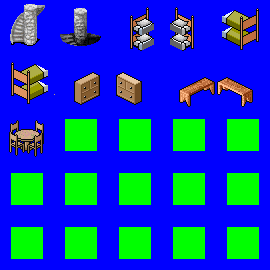
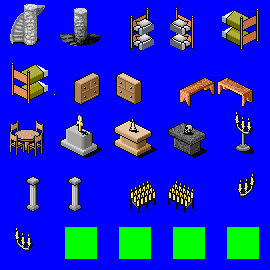
Added field rest

diff --git a/exploration.py b/exploration.py
@@ -208,6 +208,38 @@ class Explorer( object ):
         x,y = camp.first_living_pc().pos
         self.view.focus( screen, x, y )
 
+    def field_camp( self ):
+        """The party is going camping. Yahoo!"""
+        self.alert( "You camp down to take a short rest..." )
+        awareness = min( self.camp.party_stat( stats.AWARENESS, stats.INTELLIGENCE ), 75 ) + 15
+        if random.randint(1,100) <= awareness:
+            self.camp.rest( 0.5 )
+            self.alert( "...and wake up perfectly refreshed." )
+        elif random.randint(1,3)==2 and self.camp.gold > random.randint( 1,1000 ):
+            lose = max( self.camp.gold // 2, 1 )
+            self.camp.gold -= lose
+            self.camp.rest( 0.5 )
+            self.alert( "...but when you wake up, {0}gp is missing!".format( lose ) )
+        else:
+            pc = self.camp.first_living_pc()
+            aoe = list()
+            for x in range( pc.pos[0]-3, pc.pos[0]+4 ):
+                for y in range( pc.pos[1]-3, pc.pos[1]+4 ):
+                    if self.scene.on_the_map(x,y) and not self.scene.map[x][y].blocks_walking() and not self.scene.get_character_at_spot((x,y)):
+                        aoe.append( (x,y) )
+            team = teams.Team(default_reaction=-999)
+            mons = team.build_encounter( self.scene,(self.scene.rank + self.camp.party_rank() )//2, random.randint(40,65), self.scene.get_encounter_request() )
+            for m in mons:
+                if aoe:
+                    p = random.choice( aoe )
+                    aoe.remove( p )
+                    m.place( self.scene, p )
+                else:
+                    break
+            self.alert( "...and get woken up by monsters!" )
+            self.camp.activate_monster( mons[0] )
+
+
     def probe( self, target ):
         csheet = charsheet.CharacterSheet( target, screen=self.screen )
         myredraw = charsheet.CharacterViewRedrawer( csheet=csheet, screen=self.screen, caption="Probe", predraw=self.view)
@@ -607,6 +639,8 @@ class Explorer( object ):
                         self.view.focus( self.screen, *self.camp.first_living_pc().pos )
                     elif gdi.unicode == u"m":
                         self.cast_explo_spell(0)
+                    elif gdi.unicode == u"R":
+                        self.field_camp()
                     elif gdi.unicode == u"s":
                         self.shop( self )
                     elif gdi.unicode == u"*":

diff --git a/narrator/plots.py b/narrator/plots.py
@@ -6,17 +6,17 @@ class PlotError( Exception ):
 
 class PlotState( object ):
     """For passing state information to subplots."""
-    def __init__( self, propp=0, setting=None, chapter=None, level=None, elements={} ):
+    def __init__( self, propp=0, setting=None, chapter=None, rank=None, elements={} ):
         self.propp = propp
         self.setting = setting
         self.chapter = chapter
-        self.level = level
+        self.rank = rank
         self.elements = elements
     def based_on( self, oplot ):
         self.propp = self.propp or oplot.propp
         self.setting = self.setting or oplot.setting
         self.chapter = self.chapter or oplot.chapter
-        self.level = self.level or oplot.level
+        self.rank = self.rank or oplot.rank
         # Only copy over the elements not marked as private.
         for k,v in oplot.elements.iteritems():
             if isinstance( k, str ) and len(k)>0 and k[0]!="_":
@@ -33,7 +33,7 @@ class Plot( object ):
     propp = 0
     setting = False
     chapter = 1
-    level = 1
+    rank = 1
     active = False
     # Set scope to the scene identifier of the scene this plot's scripts are
     # attached to, or True for this plot to have global scope.
@@ -47,7 +47,7 @@ class Plot( object ):
         self.propp = self.propp or pstate.propp
         self.setting = self.setting or pstate.setting
         self.chapter = pstate.chapter or self.chapter
-        self.level = pstate.level or self.level
+        self.rank = pstate.rank or self.rank
         self.elements = pstate.elements.copy()
         self.subplots = dict()
 
@@ -95,12 +95,13 @@ class Plot( object ):
                 self.move_element( ele, mydest )
         return ele
 
-    def register_scene( self, nart, myscene, mygen, ident=None, dident=None ):
+    def register_scene( self, nart, myscene, mygen, ident=None, dident=None, rank=None ):
         self.register_element( ident, myscene, dident )
         nart.camp.scenes.append( myscene )
         self.move_records.append( (myscene,nart.camp.scenes) )
         nart.generators.append( mygen )
         self.move_records.append( (mygen,nart.generators) )
+        myscene.rank = rank or self.rank
         return myscene
 
     def custom_init( self, nart ):

diff --git a/maps.py b/maps.py
@@ -298,6 +298,9 @@ HIGH_SHELF = OnTheWallVariable( "HIGH_SHELF", frames = (62,64) )
 ANVIL = SingTerrain( "ANVIL", spritesheet = SPRITE_DECOR, frame = 66, block_walk=True )
 DESK = SingTerrain( "DESK", spritesheet = SPRITE_DECOR, frame = 67, block_walk=True )
 FORGE = WaterTerrain( "FORGE", frame = 68, spritesheet = SPRITE_DECOR )
+BIG_SHELF = OnTheWallVariable( "BIG_SHELF", frames = (70,72,74) )
+PILED_GOODS = VariableTerrain( "PILED_GOODS", spritesheet = SPRITE_DECOR, block_walk=True, frames = (76,77,78) )
+FOUNTAIN = SingTerrain( "FOUNTAIN", spritesheet = SPRITE_DECOR, frame = 79, block_walk=True )
 
 BED_HEAD = BedHeadTerrain( "BED_HEAD", block_walk=True, frame=2 )
 BED_FOOT = BedFootTerrain( "BED_FOOT", block_walk=True, frame=4, partner=BED_HEAD )
@@ -306,6 +309,13 @@ BED_HEAD.partner = BED_FOOT
 DRESSER = OnTheWallTerrain( "DRESSER", block_walk=True, spritesheet=SPRITE_INTERIOR, frame = 6 )
 BENCH = OnTheWallTerrain( "BENCH", block_walk=True, spritesheet=SPRITE_INTERIOR, frame = 8 )
 TABLE = SingTerrain( "TABLE", block_walk=True, spritesheet=SPRITE_INTERIOR, frame = 10 )
+ANKH_ALTAR = SingTerrain( "ANKH_ALTAR", block_walk=True, spritesheet=SPRITE_INTERIOR, frame = 11 )
+CANDLE_ALTAR = SingTerrain( "CANDLE_ALTAR", block_walk=True, spritesheet=SPRITE_INTERIOR, frame = 12 )
+SKULL_ALTAR = SingTerrain( "SKULL_ALTAR", block_walk=True, spritesheet=SPRITE_INTERIOR, frame = 13 )
+CANDLE_STAND = SingTerrain( "CANDLE_STAND", block_walk=True, spritesheet=SPRITE_INTERIOR, frame = 14 )
+COLUMN = OnTheWallTerrain( "COLUMN", block_walk=True, spritesheet=SPRITE_INTERIOR, frame = 15 )
+TEMPLE_CANDLES = OnTheWallTerrain( "TEMPLE_CANDLES", block_walk=True, spritesheet=SPRITE_INTERIOR, frame = 17 )
+WALL_LIGHT = OnTheWallTerrain( "WALL_LIGHT", block_walk=True, spritesheet=SPRITE_INTERIOR, frame = 19 )
 
 SWORD_SIGN = OnTheWallTerrain( "SWORD_SIGN", spritesheet=SPRITE_SIGNS, frame = 0 )
 ANKH_SIGN = OnTheWallTerrain( "ANKH_SIGN", spritesheet=SPRITE_SIGNS, frame = 2 )

diff --git a/narrator/citystuff.py b/narrator/citystuff.py
@@ -50,7 +50,7 @@ class GenerallyGeneralStore( Plot ):
         int_mainroom.contents.append( npc )
         self.register_element( "SHOPKEEPER", npc )
 
-        self.shop = services.Shop( rank=self.level+2 )
+        self.shop = services.Shop( rank=self.rank+2 )
 
         return True
 
@@ -204,8 +204,9 @@ class GenericTemple( Plot ):
         exterior.special_c[ "door" ] = gate_1
         int_mainroom = mapgen.SharpRoom( tags=(context.CIVILIZED,), anchor=mapgen.south, parent=interior )
         int_mainroom.contents.append( gate_2 )
+        int_mainroom.contents.append( maps.ANKH_ALTAR )
         gate_2.anchor = mapgen.south
-        int_mainroom.decorate = mapgen.LibraryDec(win=maps.STAINED_GLASS)
+        int_mainroom.decorate = mapgen.TempleDec(win=maps.STAINED_GLASS)
 
         npc = monsters.generate_npc( job=random.choice((characters.Priest, characters.Priest, characters.Priest,
             characters.Druid, characters.Druid, characters.Monk, characters.Knight) ))
@@ -219,7 +220,7 @@ class GenericTemple( Plot ):
     def SHOPKEEPER_offers( self ):
         # Return list of shopkeeper offers.
         ol = list()
-        ol.append( dialogue.Offer( "You will recieve aid in accordance with the offering you provide." ,
+        ol.append( dialogue.Offer( "Remember that it is better to give than to receive, which is why we insist that you pay up front." ,
          context = context.ContextTag([context.SERVICE,context.HEALING]), effect=self.shop ) )
         return ol
 
@@ -262,7 +263,7 @@ class GenericWeaponShop( Plot ):
         int_mainroom.contents.append( npc )
         self.register_element( "SHOPKEEPER", npc )
 
-        self.shop = services.Shop( ware_types=services.WEAPON_STORE, rank=self.level+2,
+        self.shop = services.Shop( ware_types=services.WEAPON_STORE, rank=self.rank+2,
          allow_misc=False, allow_magic=True, num_items=15 )
 
         return True

diff --git a/mapgen.py b/mapgen.py
@@ -226,7 +226,8 @@ class WeaponShopDec( BuildingDec ):
 
 class GeneralStoreDec( BuildingDec ):
     """Add windows + signs of inhabitation to a (sharp) room."""
-    WALL_DECOR = ( maps.PROVISIONS, maps.PROVISIONS, maps.WALL_CRATES, maps.WALL_WEAPON_RACK )
+    WALL_DECOR = ( maps.PROVISIONS, maps.PROVISIONS, maps.WALL_CRATES, maps.WALL_WEAPON_RACK,
+        maps.BIG_SHELF, maps.BIG_SHELF )
 
 class LibraryDec( BuildingDec ):
     """Add windows + signs of inhabitation to a (sharp) room."""
@@ -234,7 +235,7 @@ class LibraryDec( BuildingDec ):
 
 class BedroomDec( BuildingDec ):
     """Add windows + signs of inhabitation to a (sharp) room."""
-    WALL_DECOR = ( maps.LANDSCAPE_PICTURE, maps.HIGH_SHELF, maps.BENCH, maps.DRESSER )
+    WALL_DECOR = ( maps.LANDSCAPE_PICTURE, maps.BENCH, maps.BENCH, maps.DRESSER, maps.DRESSER )
     def all_clear( self, gb, area, point ):
         """Return true if no walls or decor in area, no map contents in point."""
         ok = True
@@ -267,6 +268,12 @@ class BedroomDec( BuildingDec ):
                     elif random.randint(1,3)==1:
                         random.choice( self.WALL_DECOR ).place( gb, (x,area.y) )
         self.windowize(gb,area)
+
+class TempleDec( BuildingDec ):
+    """Add windows + signs of inhabitation to a (sharp) room."""
+    WALL_DECOR = ( maps.SUN_PICTURE, maps.MOON_PICTURE, maps.HIGH_SHELF, maps.BENCH,
+        maps.COLUMN, maps.COLUMN, maps.TEMPLE_CANDLES, maps.TEMPLE_CANDLES )
+
 
 #  *****************
 #  ***   ROOMS   ***

diff --git a/narrator/encounters.py b/narrator/encounters.py
@@ -23,7 +23,7 @@ class BasicEncounter( Plot ):
         scene = self.elements.get("SCENE")
         mygen = nart.get_map_generator( scene )
         room = mygen.DEFAULT_ROOM()
-        room.contents.append( teams.Team(default_reaction=-999, rank=self.level, 
+        room.contents.append( teams.Team(default_reaction=-999, rank=self.rank, 
           habitat=scene.get_encounter_request() ) )
         self.register_element( "_ROOM", room, dident="SCENE" )
         return True

diff --git a/traps.py b/traps.py
@@ -80,8 +80,7 @@ class AlarmTrap( SingleTrap ):
                     aoe.remove( p )
                 else:
                     break
-                m.pos = p
-                explo.scene.contents.append( m )
+                m.place( explo.scene, p )
             return self.ONE_SHOT
     def get_area( self, explo, pos ):
         aoe = list()

diff --git a/tp.py b/tp.py
@@ -4,7 +4,7 @@ import narrator
 import context
 
 print "Hellow World!"
-init = narrator.plots.PlotState(chapter=1, level=1)
+init = narrator.plots.PlotState(chapter=1, rank=1)
 nart = narrator.Narrative( init )
 
 if nart.story:
